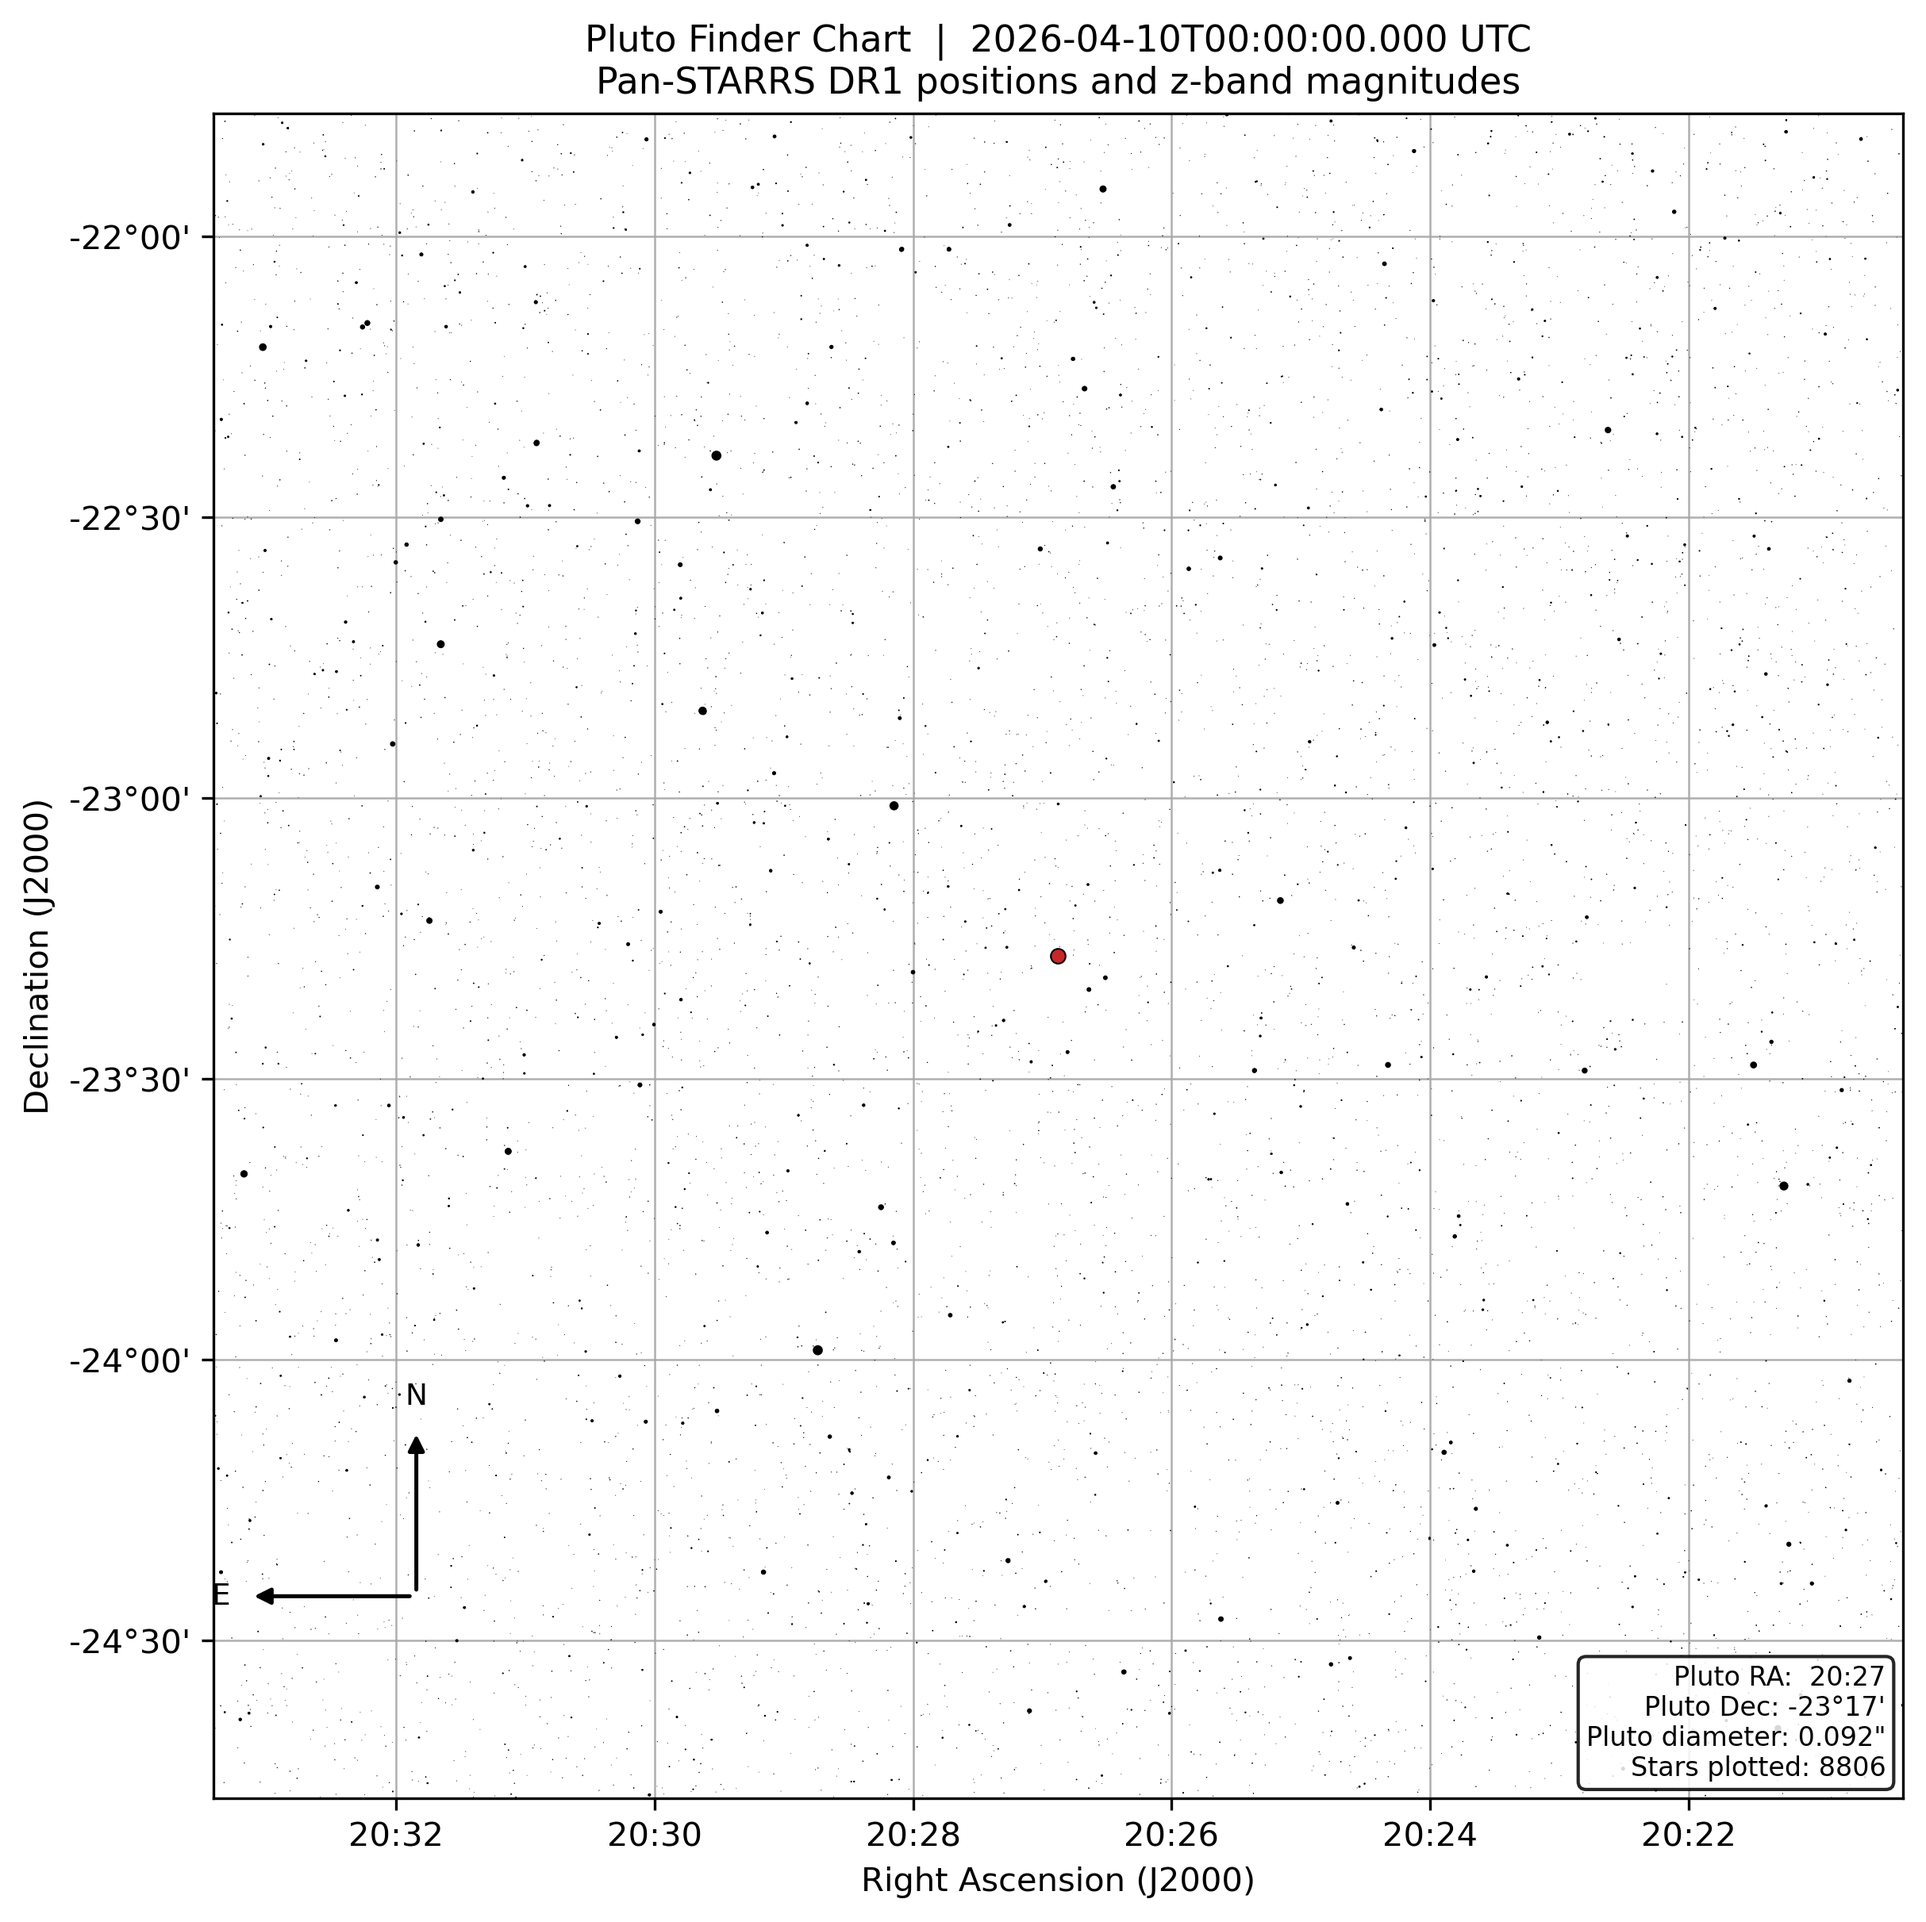
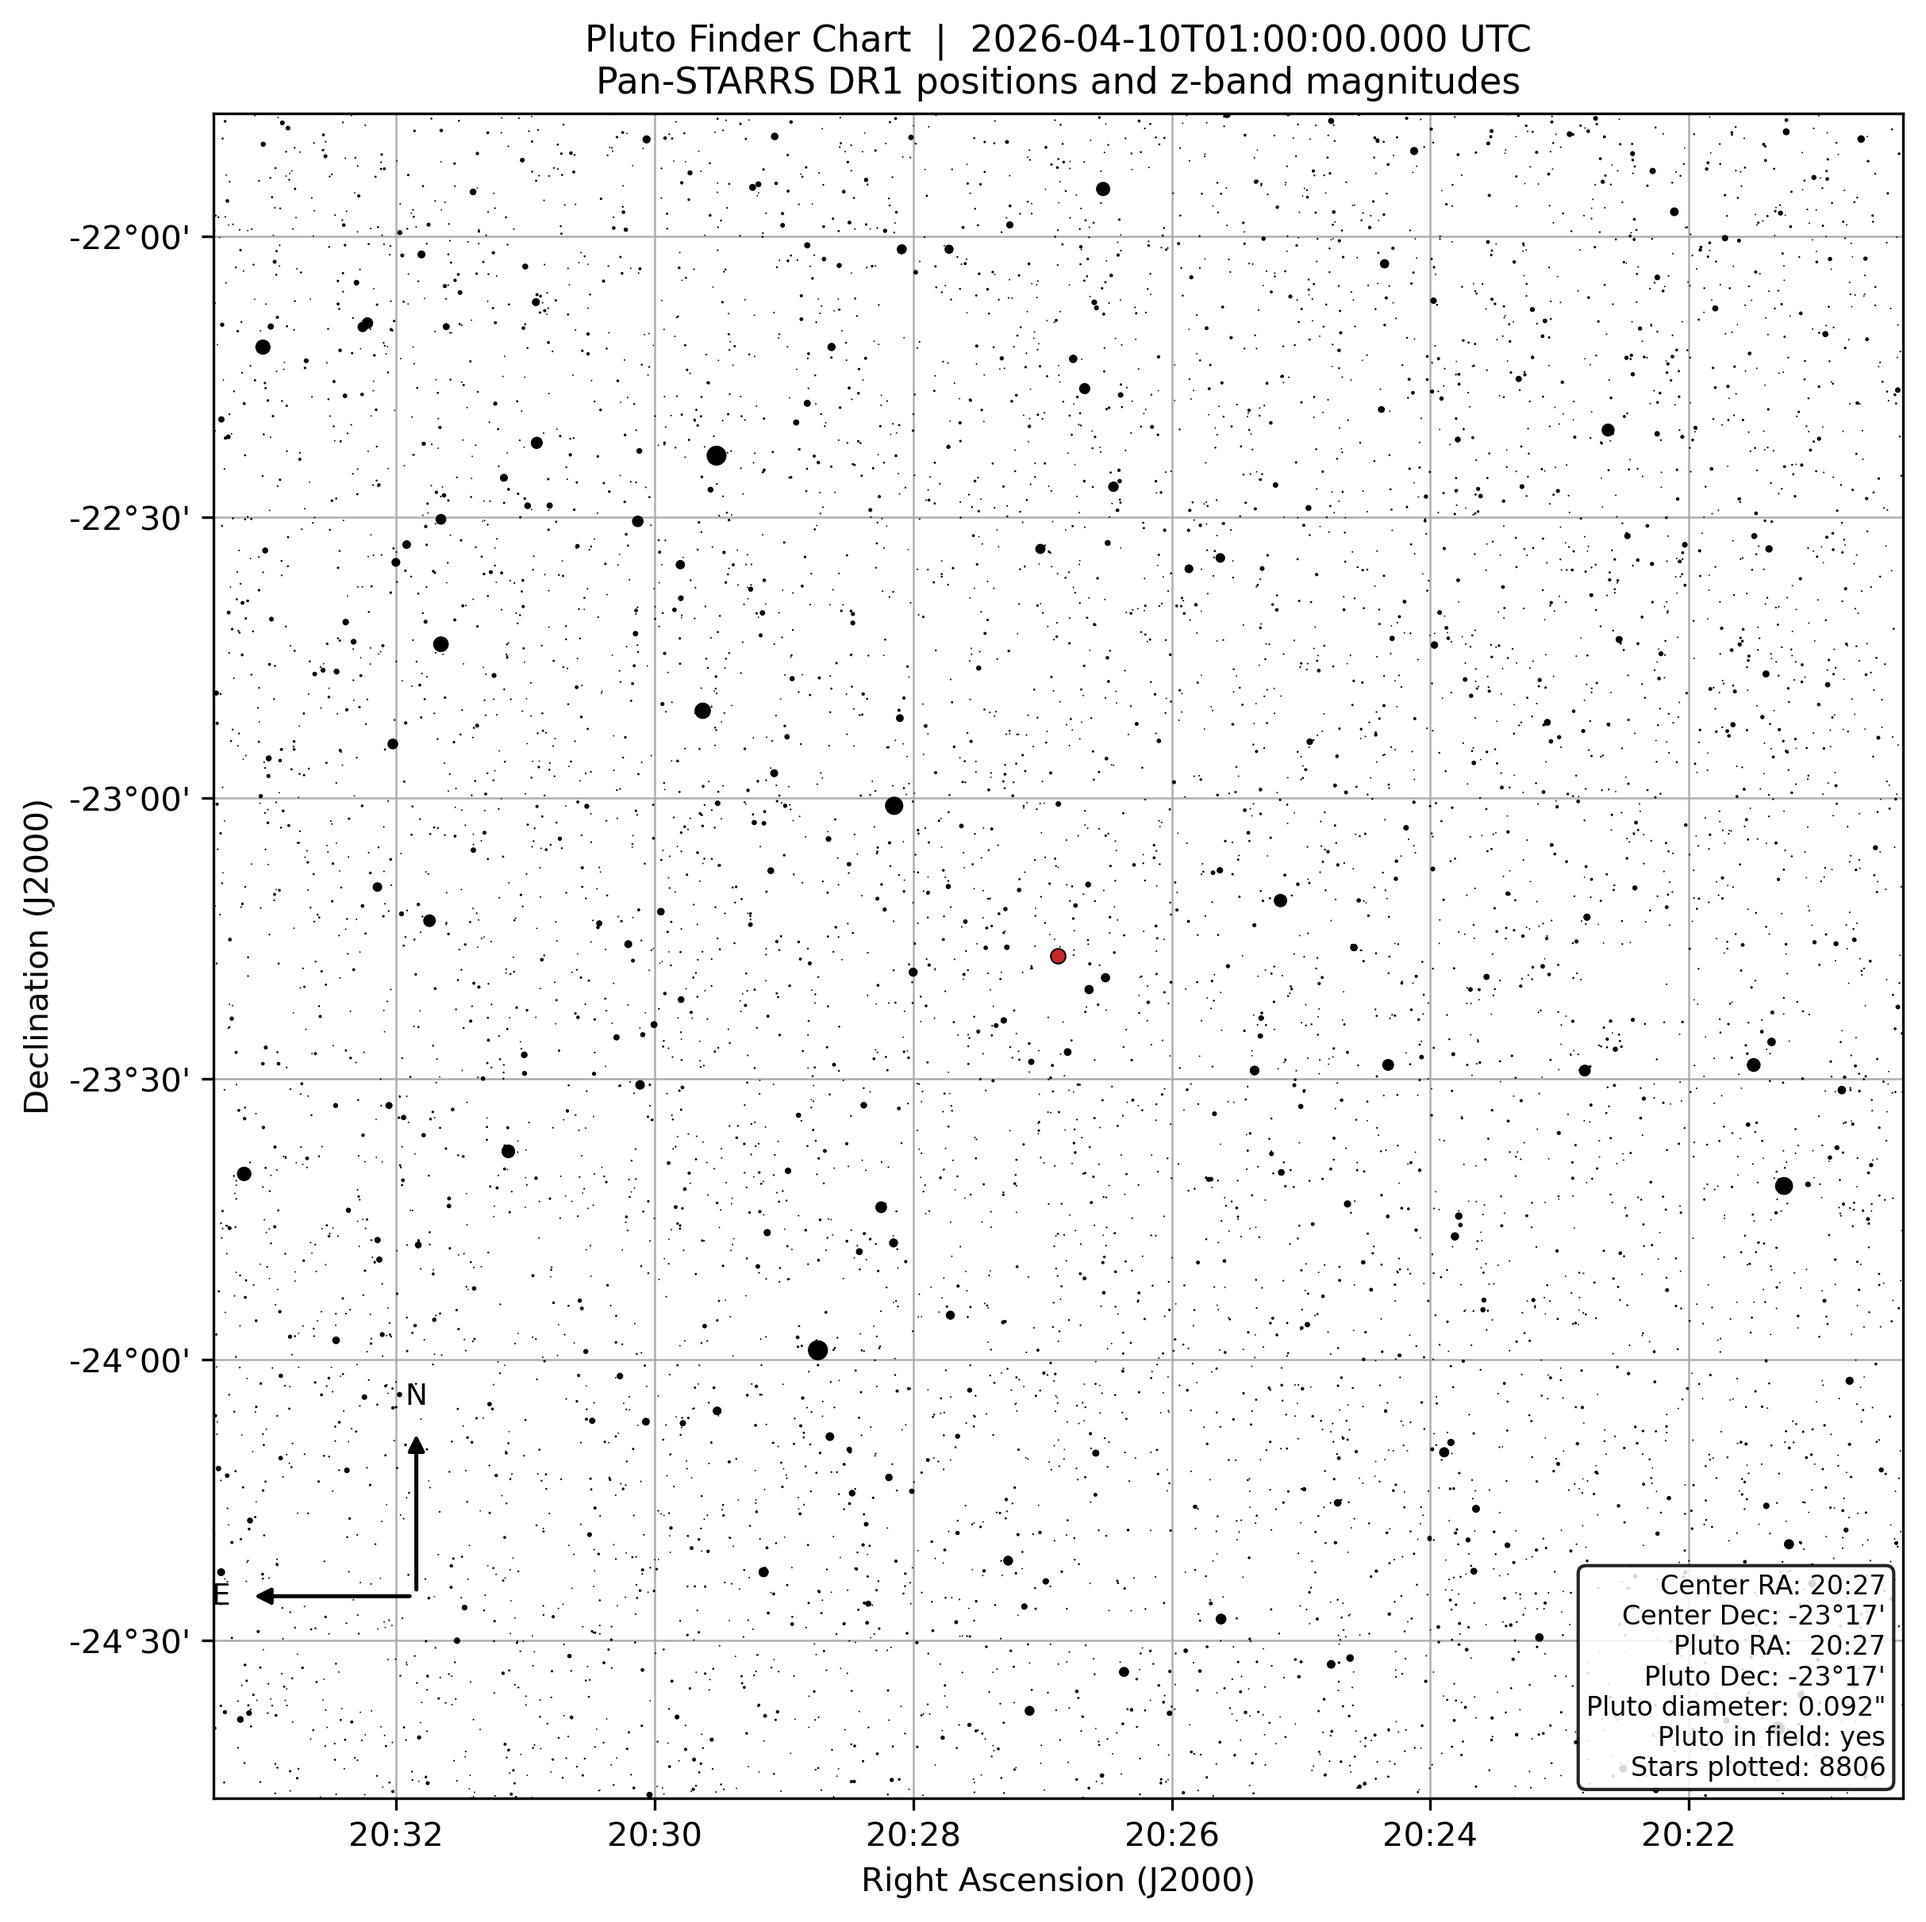
Add files via upload

Changed region(s): [[0.8035, 0.8048, 0.9889, 0.9286]]

diff --git a/pluto_ps1_nir_finder.py b/pluto_ps1_nir_finder.py
@@ -6,6 +6,10 @@ Create a printable Pluto finder chart using Pan-STARRS DR1 only:
   - Pan-STARRS DR1 z-band magnitudes for star-dot scaling
 
 This version does NOT query APASS.
+
+By default the chart is centered on Pluto at the requested time.
+Use --center-ra/--center-dec (or --center-datetime) to keep a fixed field center
+across times so Pluto motion becomes obvious between charts.
 """
 
 from __future__ import annotations
@@ -24,6 +28,7 @@ from matplotlib.patches import Ellipse
 
 PS1_CATALOG = "II/349/ps1"
 PLUTO_RADIUS = 1188.3 * u.km
+STAR_DIAMETER_SCALE = 2.0
 
 
 def parse_time(dt_text: str) -> Time:
@@ -104,20 +109,24 @@ def magnitude_to_marker_size(
       mag 3 -> 5 mm
       mag 4 -> 2 mm
 
+    All diameters are multiplied by STAR_DIAMETER_SCALE.
+
     For magnitudes fainter than 4, diameter decreases smoothly (log-space interpolation)
-    down to exactly 1 output pixel at zmag_limit.
+    down to STAR_DIAMETER_SCALE output pixels at zmag_limit.
     """
     zmag = np.asarray(zmag, dtype=float)
 
-    # 1 output pixel converted to mm at the chosen save DPI
-    min_diam_mm = 25.4 / float(output_dpi)
+    scale = STAR_DIAMETER_SCALE
+
+    # Scaled output-pixel floor converted to mm at the chosen save DPI.
+    min_diam_mm = scale * 25.4 / float(output_dpi)
 
     if zmag_limit <= 4.0:
         mag_nodes = np.array([0.0, 1.0, 3.0, 4.0], dtype=float)
-        diam_nodes_mm = np.array([20.0, 10.0, 5.0, 2.0], dtype=float)
+        diam_nodes_mm = np.array([20.0 * scale, 10.0 * scale, 5.0 * scale, 2.0 * scale], dtype=float)
     else:
         mag_nodes = np.array([0.0, 1.0, 3.0, 4.0, zmag_limit], dtype=float)
-        diam_nodes_mm = np.array([20.0, 10.0, 5.0, 2.0, min_diam_mm], dtype=float)
+        diam_nodes_mm = np.array([20.0 * scale, 10.0 * scale, 5.0 * scale, 2.0 * scale, min_diam_mm], dtype=float)
 
     # Interpolate diameters in log-space so size changes feel atlas-like and smooth.
     mags = np.clip(zmag, mag_nodes[0], mag_nodes[-1])
@@ -128,8 +137,8 @@ def magnitude_to_marker_size(
     diam_pt = diam_mm * 72.0 / 25.4
     area_pt2 = np.pi * (diam_pt / 2.0) ** 2
 
-    # Enforce at least 1-pixel diameter in output.
-    min_diam_pt = 72.0 / float(output_dpi)
+    # Enforce at least STAR_DIAMETER_SCALE pixels diameter in output.
+    min_diam_pt = STAR_DIAMETER_SCALE * 72.0 / float(output_dpi)
     min_area_pt2 = np.pi * (min_diam_pt / 2.0) ** 2
     return np.maximum(area_pt2, min_area_pt2)
 
@@ -208,6 +217,7 @@ def add_orientation_arrows(ax):
 
 def make_plot(
     pluto: SkyCoord,
+    chart_center: SkyCoord,
     obstime: Time,
     star_coords: SkyCoord,
     zmag: np.ndarray,
@@ -218,8 +228,8 @@ def make_plot(
     output_dpi: int,
 ):
     """Render and save the finder chart (black-on-white printable style)."""
-    ra_center = pluto.ra.deg
-    dec_center = pluto.dec.deg
+    ra_center = chart_center.ra.deg
+    dec_center = chart_center.dec.deg
 
     # Convert RA to continuous values around Pluto so axis is not broken at RA=0/24.
     ra_plot = unwrap_ra_around(star_coords.ra.deg, ra_center)
@@ -243,6 +253,7 @@ def make_plot(
         & (dec_plot <= dec_max)
         & np.isfinite(zmag)
     )
+    pluto_in_field = (ra_min <= pluto_ra_plot <= ra_max) and (dec_min <= dec_center <= dec_max)
 
     ra_plot = ra_plot[inside]
     dec_plot = dec_plot[inside]
@@ -312,9 +323,12 @@ def make_plot(
     ax.set_title(title, color="black", fontsize=11)
 
     info = (
+        f"Center RA: {format_ra_hhmm(chart_center.ra.deg)}\n"
+        f"Center Dec: {format_dec_ddmm(chart_center.dec.deg)}\n"
         f"Pluto RA:  {format_ra_hhmm(pluto.ra.deg)}\n"
         f"Pluto Dec: {format_dec_ddmm(pluto.dec.deg)}\n"
         f"Pluto diameter: {pluto_diameter_arcsec:.3f}\"\n"
+        f"Pluto in field: {'yes' if pluto_in_field else 'no'}\n"
         f"Stars plotted: {len(zmag)}"
     )
     ax.text(
@@ -336,7 +350,7 @@ def make_plot(
 
 def main():
     parser = argparse.ArgumentParser(
-        description="Plot a printable Pluto finder chart with Pan-STARRS DR1 star positions and z-band brightness."
+        description="Plot a printable Pluto finder chart with Pan-STARRS DR1 stars (z-band sizing)."
     )
     parser.add_argument(
         "--datetime",
@@ -366,19 +380,49 @@ def main():
         default=240,
         help="Output DPI (default: 240). Used for 1-pixel faint-star size floor.",
     )
+    parser.add_argument(
+        "--center-ra",
+        type=float,
+        default=None,
+        help="Optional fixed chart center RA in degrees (J2000). Use with --center-dec.",
+    )
+    parser.add_argument(
+        "--center-dec",
+        type=float,
+        default=None,
+        help="Optional fixed chart center Dec in degrees (J2000). Use with --center-ra.",
+    )
+    parser.add_argument(
+        "--center-datetime",
+        default=None,
+        help="Optional fixed center from Pluto position at this ISO datetime. Ignored if --center-ra/--center-dec are set.",
+    )
     args = parser.parse_args()
 
     obstime = parse_time(args.datetime)
     pluto = pluto_icrs(obstime)
     pluto_diam_arcsec = pluto_apparent_diameter_arcsec(pluto)
 
+    if (args.center_ra is None) != (args.center_dec is None):
+        raise ValueError("Provide both --center-ra and --center-dec, or neither.")
+
+    if args.center_ra is not None:
+        chart_center = SkyCoord(ra=args.center_ra * u.deg, dec=args.center_dec * u.deg, frame="icrs")
+    elif args.center_datetime is not None:
+        center_time = parse_time(args.center_datetime)
+        chart_center = pluto_icrs(center_time)
+    else:
+        # Default behavior: chart follows Pluto (so Pluto stays near center)
+        chart_center = pluto
+
     # Circumscribed radius so corners of the square field are covered.
     query_radius = np.hypot(args.fov / 2.0, args.fov / 2.0) * u.deg
 
-    ps1_coords, zmag = query_ps1_sources(pluto, query_radius, args.zmag_limit)
+    ps1_coords, zmag = query_ps1_sources(chart_center, query_radius, args.zmag_limit)
 
     make_plot(
         pluto=pluto,
+        chart_center=chart_center,
         obstime=obstime,
         star_coords=ps1_coords,
         zmag=zmag,
